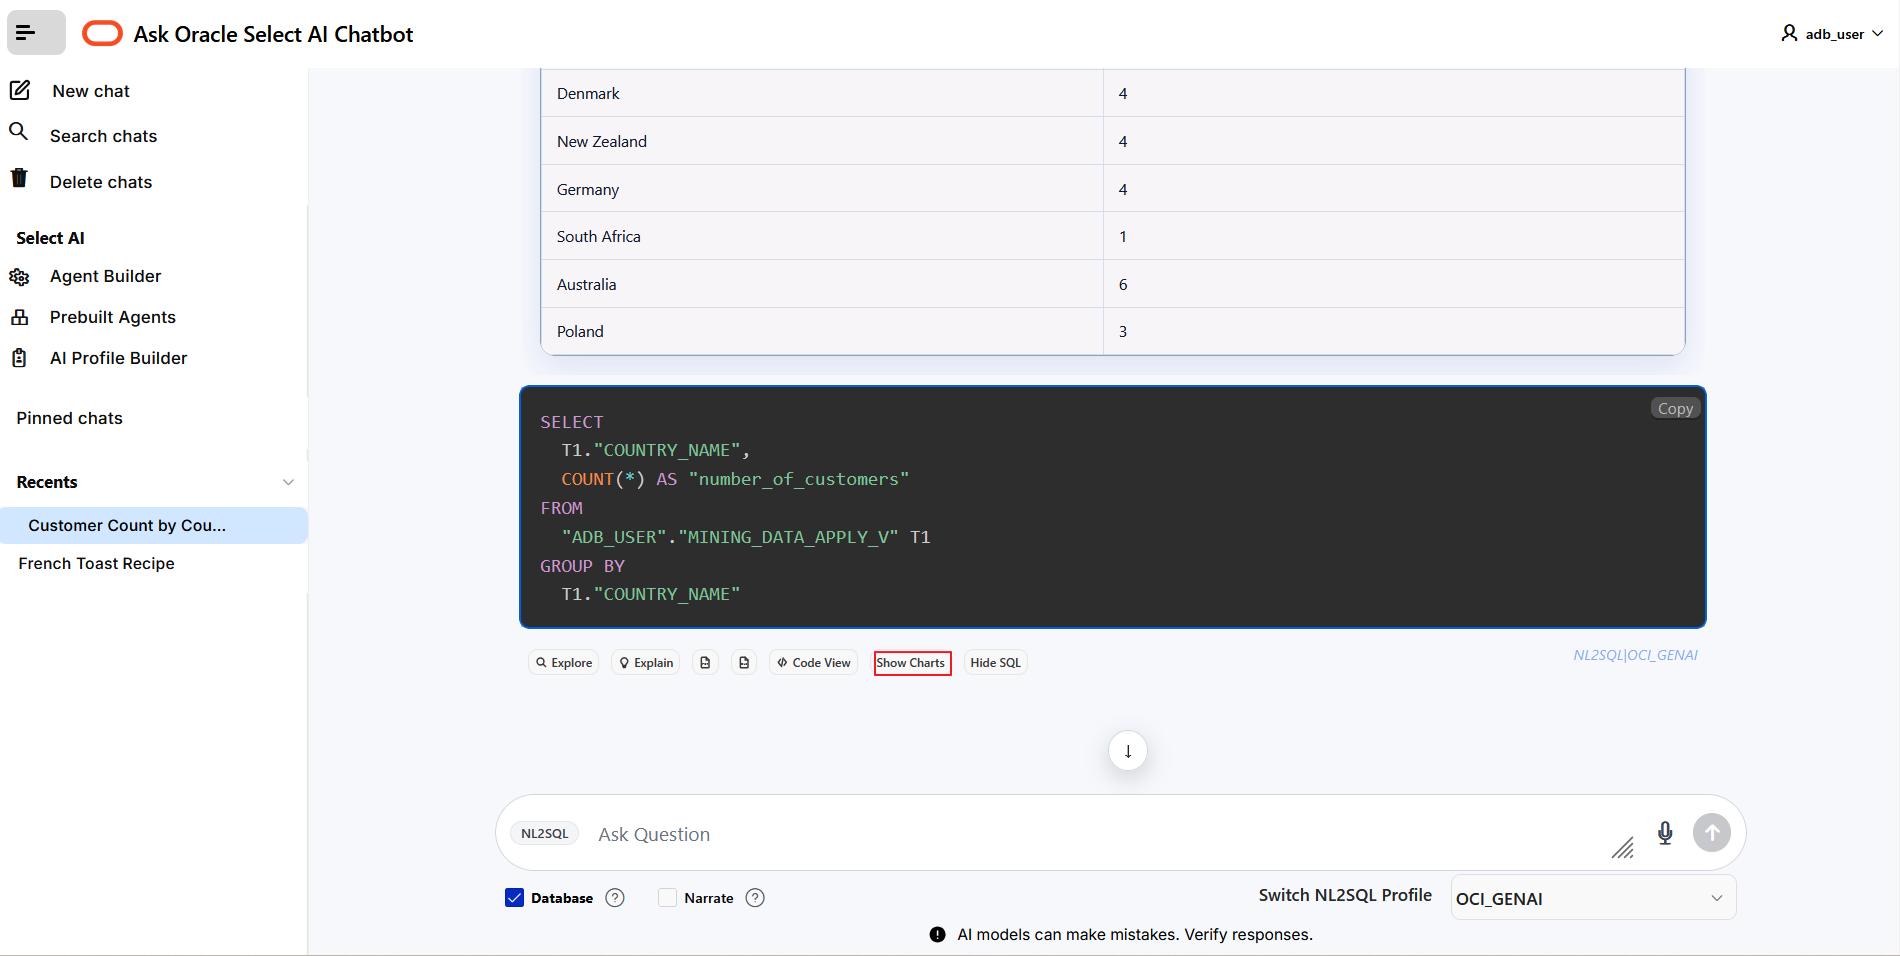
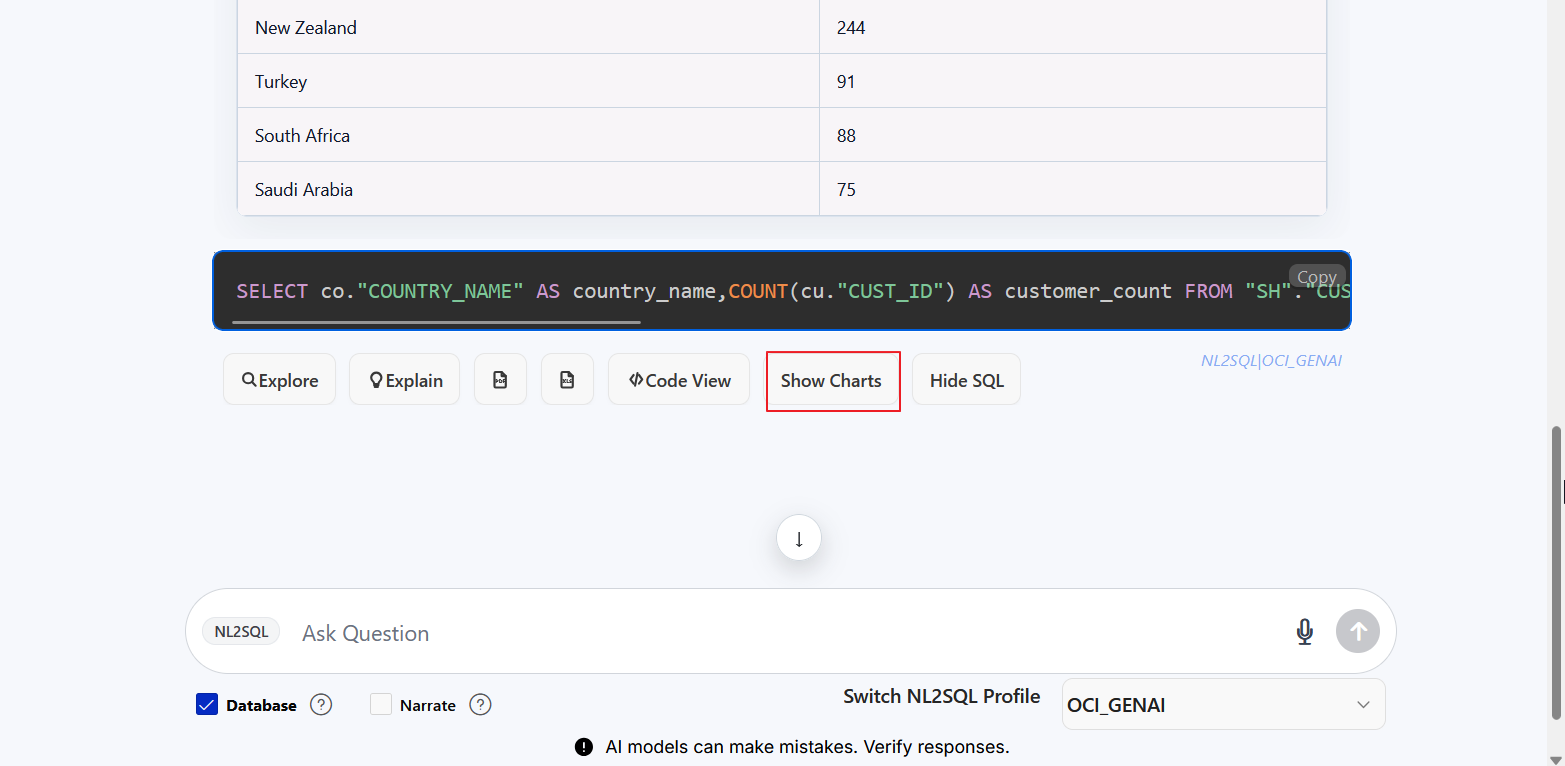
Fresh screenshots added and narrate steps added again.

diff --git a/shared/agentic-select-ai/use-ask-oracle-demo-app/use-ask-oracle-demo-app.md b/shared/agentic-select-ai/use-ask-oracle-demo-app/use-ask-oracle-demo-app.md
@@ -17,7 +17,7 @@ In this lab, you will:
 
 ### Prerequisites
 - This lab requires the completion of all the preceding labs in the **Contents** menu on the left.
-- Autonomous Database is reachable from your browser environment.
+- Autonomous AI Database is reachable from your browser environment.
 
 > Note: If you are independently using OML Notebook on your instance to run the code, append `%script` at the beginning for the codeblocks.
 
@@ -55,7 +55,7 @@ To create NL2SQL profile:
 
   ![Enter Ask Oracle Chatbot credentials](./images/ask-oracle-login.png =70%x*)
 
-2. The **Set Admin Users** window in the **Ask Oracle Select AI** application is displayed. Type the schema name that has access to Select AI Profiles. For example, `ADB_USER` in the **Admin usernames** field and click **Save Admin Users**.
+2. The **Set Admin Users** window in the **Ask Oracle Select AI** application is displayed. Type the schema name that has access to Select AI Profiles. For example, `ADB_USER` in the **Admin usernames** field and click **Save Admin Users**. To save the current user name as an Admin, you may click **Skip**. 
    ![Enter comma separated usernames as Admin users](./images/ask-oracle-set-admin-users.png =70%x*)
 
 3. The **Ask Oracle Select AI Chatbot** application is displayed.
@@ -106,33 +106,32 @@ Let's experiment a bit with both general data from the _internet_ and also from 
 
   ![LLM's response](./images/ask-oracle-french-toast-recipe-display.png =70%x*)
 
-<!-- - **Generate narrated result:**
-_Check the **Database** and **Narrate** checkbox_ to ask questions about your database data based on the user and tables in the database specified in the AI profile such as:
+1. Let's find out _How many customers do I have in each country?_ Enter your question using a free form format in the **Ask Question** text box, and select the **Database** checkbox since this is a question about the tables present in the OCI_GENAI profile. Next, press **[ENTER]**. 
+   The number of customers along with the countries are displayed.
+  ![Select Database and ask database tables related question](./images/ask-oracle-database.png =70%x*)
+  
+2. Check the **Database** and **Narrate** checkbox to ask questions about your database data based on the user and tables in the database specified in the AI profile such as:
 
   _How many customers are females?_
 
-    ![Select Database and Narrate checkboxes](./images/ask-oracle-narrate.png =70%x*) -->
+    ![Select Database and Narrate checkboxes](./images/ask-oracle-narrate.png =80%x*)
 
-2. Let's find out _How many customers do I have in each country?_ Enter your question using a free form format in the **Ask Question** text box, and select the **Database** checkbox since this is a question about the tables present in the OCI_GENAI profile. Next, press **[ENTER]**. 
-   The number of customers along with the countries are displayed.
-  ![Select Database and ask database tables related question](./images/ask-oracle-database.png =70%x*)
-
-3. Click **Explain** to view and explain the SQL query behind this natural language question.
-   ![Click Explain to view the explanation of the generated SQL](./images/ask-oracle-explain.png =70%x*)
+3. Now run Step 1 again and click **Explain** to view and explain the SQL query behind this natural language question.
+   ![Click Explain to view the explanation of the generated SQL](./images/ask-oracle-explain.png =80%x*)
 4. When you finish reviewing, click the Back icon (left arrow) to return to the conversation on Home page.
-   ![Click Explain to view the generated SQL](./images/ask-oracle-explain-sql.png =70%x*)
+   ![Click Explain to view the generated SQL](./images/ask-oracle-explain-sql.png =80%x*)
 5. Now, click **Explore**.
-   ![Select Explore](./images/ask-oracle-explore.png =70%x*)
+   ![Select Explore](./images/ask-oracle-explore.png =80%x*)
    The **Explore** page is displayed.
-   ![Select Explore](./images/ask-oracle-explore-display.png =70%x*)
+   ![Select Explore](./images/ask-oracle-explore-display.png =80%x*)
 6. Click the **Actions** drop-down list to perform several tasks on the generated data such as sorting, downloading, formatting, charting and much more. For details on using the actions tasks, see the embedded video in the **Introduction** section of this lab. 
-  ![Select Actions and explore various options](./images/ask-oracle-explore-actions.png =70%x*)
+  ![Select Actions and explore various options](./images/ask-oracle-explore-actions.png =80%x*)
 7. When you finish exploring, click the **Back** icon (left arrow) to return to the conversation on Home page. Now, click **Show SQL**.
-  ![Select Show SQL](./images/ask-oracle-showsql.png =70%x*)
+  ![Select Show SQL](./images/ask-oracle-showsql.png =80%x*)
 8. You can now see the SQL code generated by Select AI.
-   ![View generated SQL](./images/ask-oracle-showsql-display.png =70%x*)
+   ![View generated SQL](./images/ask-oracle-showsql-display.png =80%x*)
 9. Finally, there is also a button to **Show Charts** that enables you to play interactively with the data.
-    ![Select Show Charts](./images/ask-oracle-show-charts.png =70%x*)
+    ![Select Show Charts](./images/ask-oracle-show-charts.png =80%x*)
    
    The chart is displayed:
    ![Displays a bar chart of the data](./images/ask-oracle-show-charts-display.png =70%x*)

diff --git a/shared/agentic-select-ai/setup-environment/setup-environment.md b/shared/agentic-select-ai/setup-environment/setup-environment.md
@@ -89,7 +89,7 @@ Here is a video that walks you through the **Ask Oracle** chatbot app installati
 
 Perform the following steps to install the Ask Oracle Chatbot app. The application is available on GitHub.
 
-1. Download the `ADB-AskOracle-Chatbot-yyyy-mm-dd.sql` file from the [GitHub repository](https://github.com/oracle-devrel/oracle-autonomous-database-samples/tree/main/apex/Ask-Oracle) and store it in your local directory. 
+1. Download the `ADB-AskOracle-Chatbot-yyyy-mm-dd.sql` file from the [GitHub repository](https://github.com/oracle-devrel/oracle-autonomous-database-samples/tree/main/apex/Ask-Oracle-Select-AI-Chatbot) and store it in your local directory. 
 
 2. From your Autonomous AI Database console, navigate to **Tool configuration** and copy the APEX URL.
 
